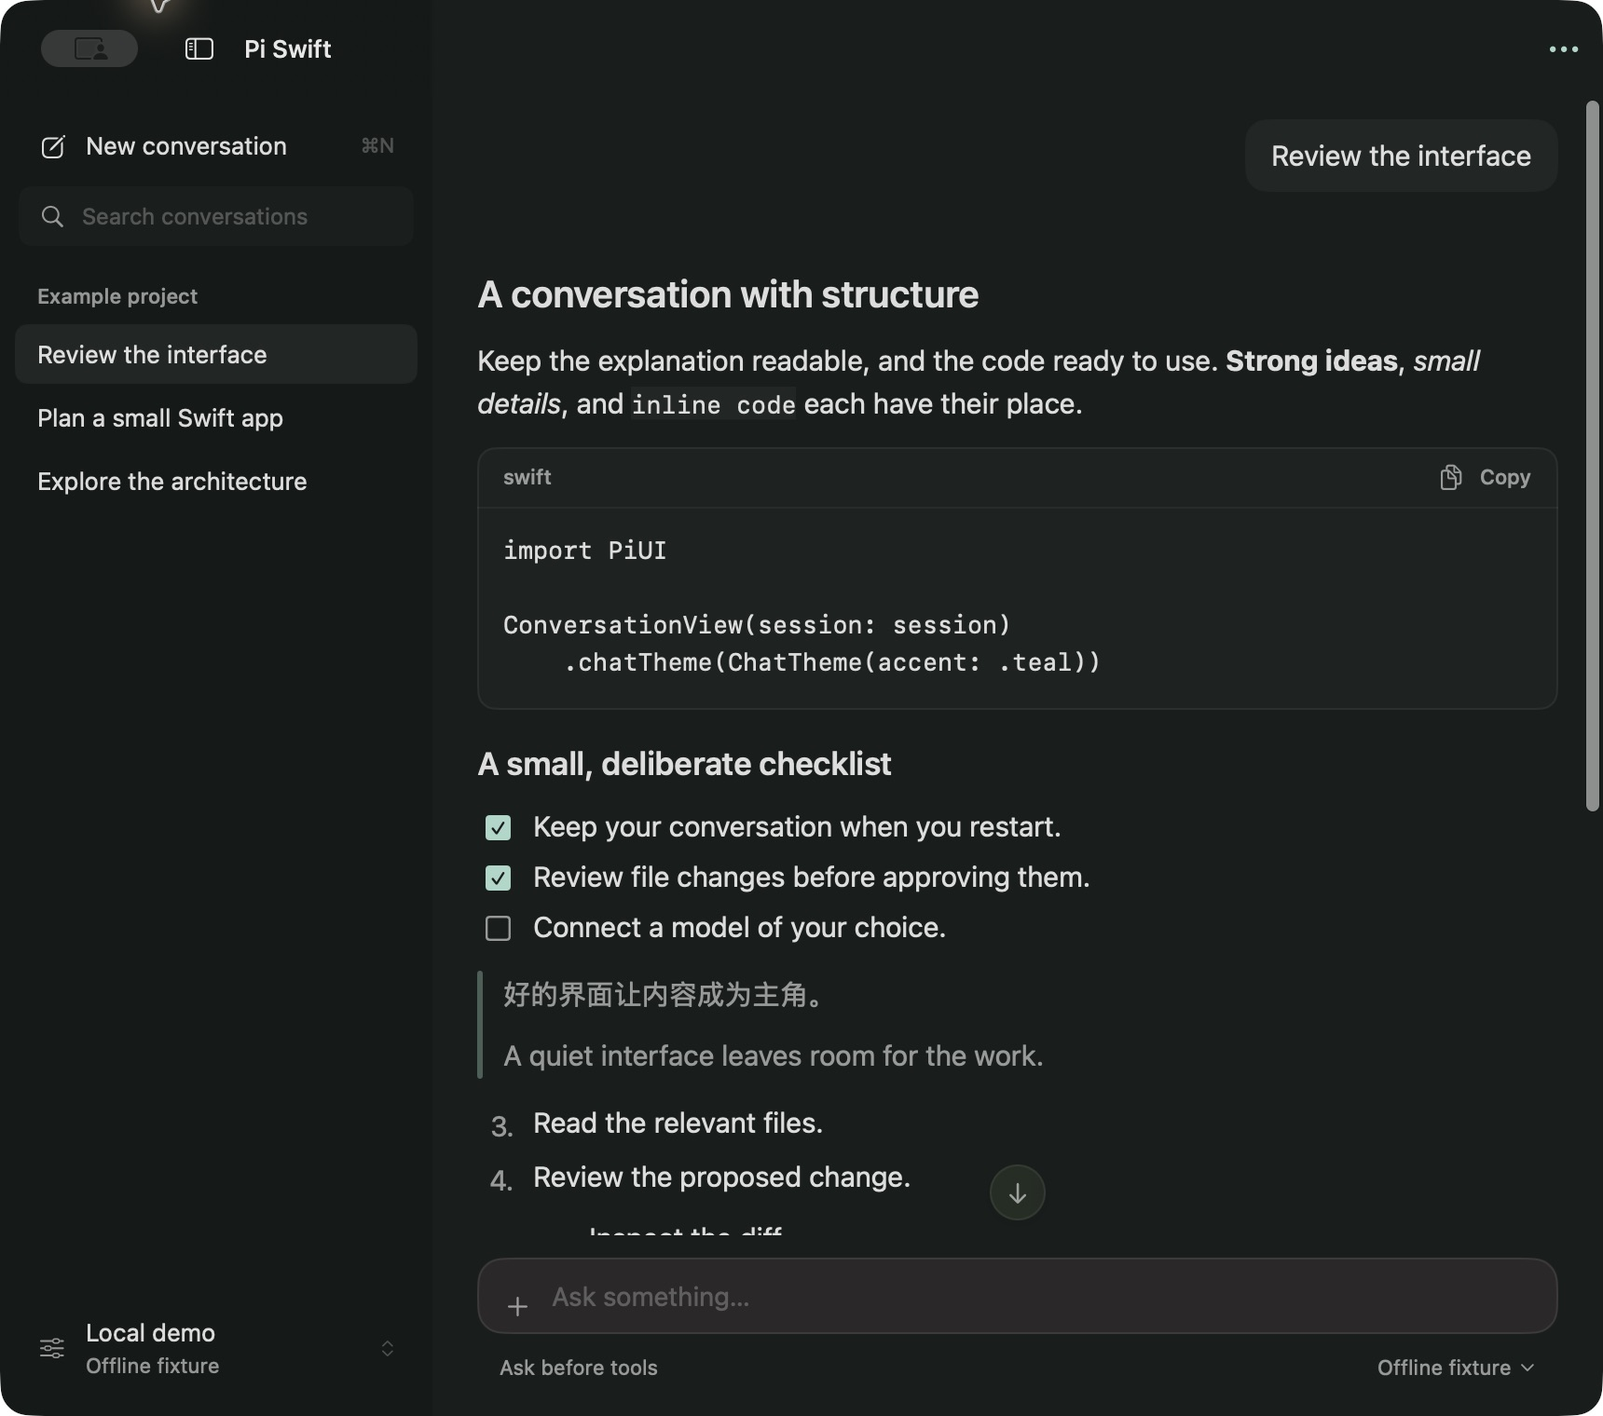
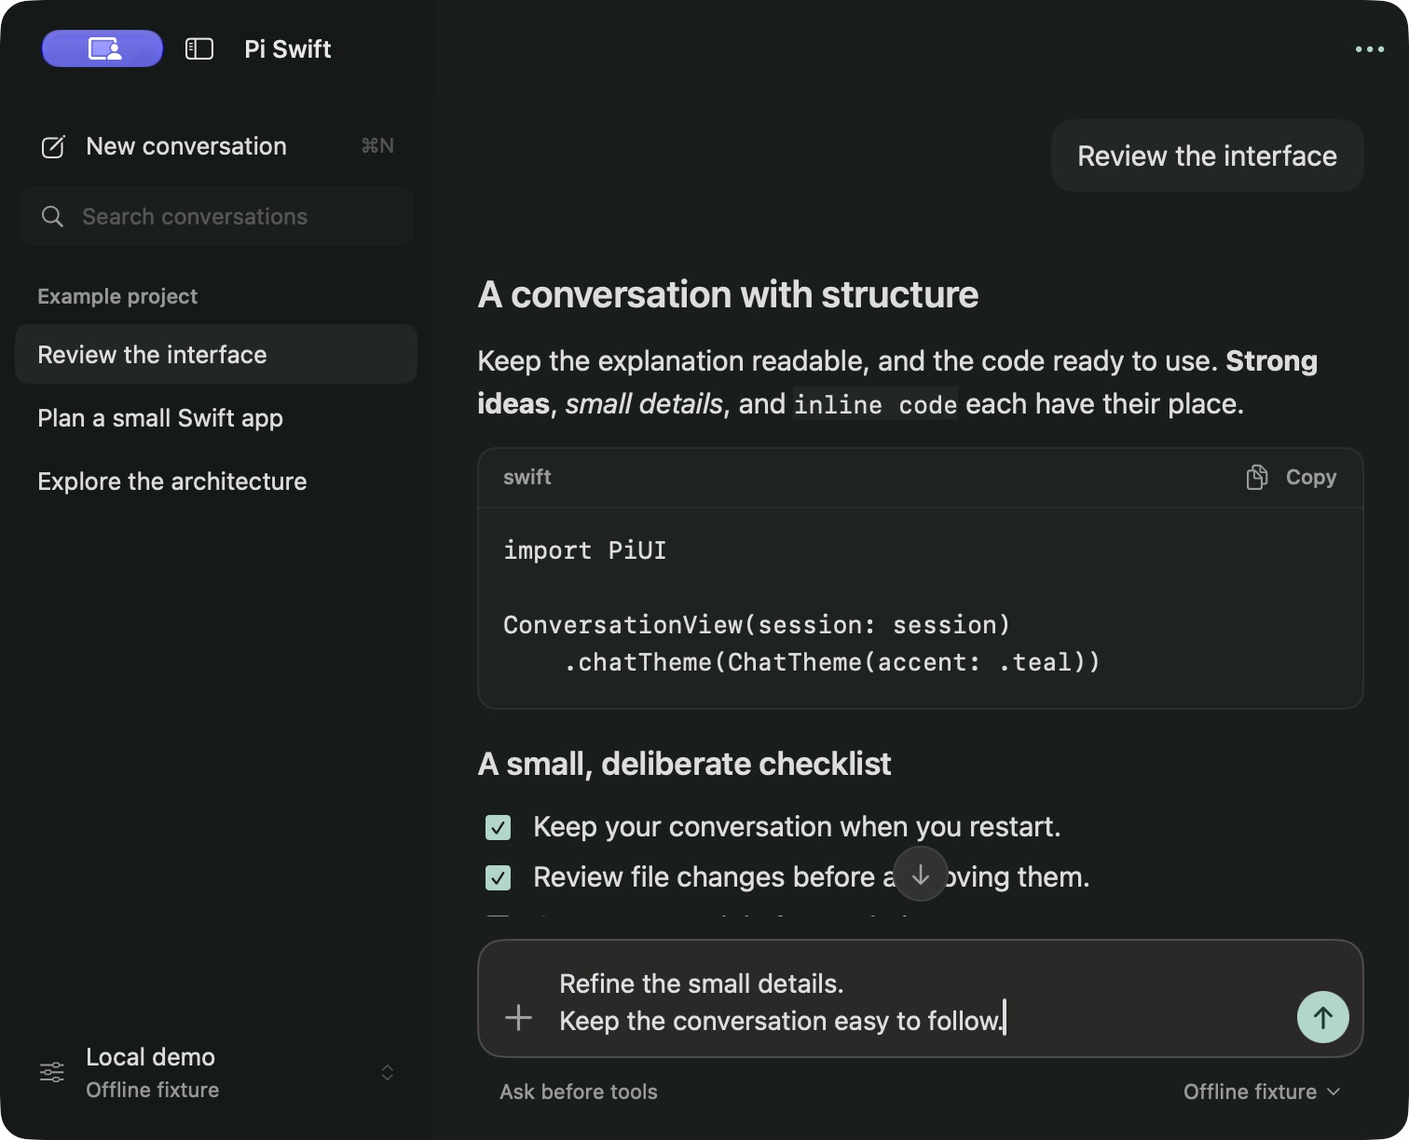
Align composer controls and native editing interactions

diff --git a/Sources/PiUI/Composer.swift b/Sources/PiUI/Composer.swift
@@ -17,7 +17,10 @@ public struct Composer: View {
     private let send: () -> Void
     private let stop: () -> Void
     private let context: ComposerContext?
-    @FocusState private var focused: Bool
+    @State private var focused = false
+    @State private var editorHeight: CGFloat = 28
+    @State private var addingContent = false
+    @FocusState private var fallbackFocused: Bool
     @Environment(\.chatTheme) private var theme
     public init(text: Binding<String>, isRunning: Bool, context: ComposerContext? = nil, send: @escaping () -> Void, stop: @escaping () -> Void) {
         _text = text; self.isRunning = isRunning; self.context = context; self.send = send; self.stop = stop
@@ -27,38 +30,47 @@ public struct Composer: View {
         VStack(alignment: .leading, spacing: 8) {
             HStack(alignment: .bottom, spacing: 8) {
                 if let context {
-                    Menu {
-                        Button("Insert text file…", systemImage: "doc.text", action: context.addTextFile)
-                    } label: {
-                        Image(systemName: "plus").font(.system(size: 16, weight: .regular)).frame(width: 24, height: 28)
-                    }.menuStyle(.borderlessButton).menuIndicator(.hidden).fixedSize()
-                        .tint(.secondary).foregroundStyle(.secondary).help("Insert text file").accessibilityLabel("Add content")
+                    Button { addingContent.toggle() } label: {
+                        Image(systemName: "plus").font(.system(size: 18, weight: .regular))
+                            .frame(width: 28, height: 28).contentShape(RoundedRectangle(cornerRadius: 6))
+                    }.buttonStyle(ComposerControlStyle()).foregroundStyle(.secondary)
+                        .help("Add content").accessibilityLabel("Add content")
+                        .popover(isPresented: $addingContent, arrowEdge: .top) {
+                            Button {
+                                addingContent = false
+                                context.addTextFile()
+                            } label: {
+                                Label("Insert text file…", systemImage: "doc.text")
+                                    .font(.system(size: 13)).padding(8).frame(maxWidth: .infinity, alignment: .leading)
+                            }.buttonStyle(ComposerControlStyle()).padding(5).frame(width: 200)
+                        }
+                        .onChange(of: addingContent) { if !addingContent { focused = true } }
                 }
-                TextField("Ask something…", text: $text, axis: .vertical)
-                    .textFieldStyle(.plain).font(.system(size: 14)).lineLimit(1...8)
-                    .focused($focused).accessibilityLabel("Message").padding(.vertical, 4)
-                    .help("⌘ Return to send · Return for a new line")
+                editor
                 if isRunning {
                     Button(action: stop) {
                         Image(systemName: "stop.fill").font(.system(size: 10)).frame(width: 28, height: 28)
                             .background(.primary.opacity(0.08), in: Circle())
-                    }.buttonStyle(.plain).help("Stop generation").accessibilityLabel("Stop generation")
+                    }.buttonStyle(ComposerControlStyle()).help("Stop generation").accessibilityLabel("Stop generation")
                 } else if canSend {
-                    Button(action: send) {
+                    Button(action: submit) {
                         Image(systemName: "arrow.up").font(.system(size: 13, weight: .semibold)).frame(width: 28, height: 28)
                             .foregroundStyle(theme.accentForeground).background(theme.accent, in: Circle())
-                    }.buttonStyle(.plain).keyboardShortcut(.return, modifiers: .command)
-                        .help("Send message · ⌘ Return").accessibilityLabel("Send message")
+                    }.buttonStyle(ComposerControlStyle())
+                        .help("Send message · Return").accessibilityLabel("Send message")
                 }
-            }.padding(.horizontal, 12).padding(.vertical, 8)
-                .background(.background, in: RoundedRectangle(cornerRadius: 14))
+            }.padding(.horizontal, 8).padding(.vertical, 8)
+                .background {
+                    RoundedRectangle(cornerRadius: 14).fill(.background)
+                        .onTapGesture { focused = true; fallbackFocused = true }
+                }
                 .overlay(RoundedRectangle(cornerRadius: 14)
                     .strokeBorder(Color.primary.opacity(focused ? 0.20 : 0.10), lineWidth: 1))
                 .shadow(color: .black.opacity(0.025), radius: 8, y: 2)
                 .animation(.easeOut(duration: 0.15), value: focused)
             HStack(spacing: 12) {
-                Text(context?.policy ?? (isRunning ? "You can prepare your next message" : "⌘ Return to send"))
-                    .lineLimit(1).fixedSize(horizontal: true, vertical: false).help(context?.policy ?? "⌘ Return to send")
+                Text(context?.policy ?? (isRunning ? "You can prepare your next message" : "Return to send · ⇧ Return for a new line"))
+                    .lineLimit(1).fixedSize(horizontal: true, vertical: false).help(context?.policy ?? "Return to send · ⇧ Return for a new line")
                 Spacer(minLength: 8)
                 if let context {
                     Button(action: context.configure) {
@@ -71,5 +83,39 @@ public struct Composer: View {
                 }
             }.font(.system(size: 11)).foregroundStyle(.secondary).padding(.horizontal, 12).frame(minHeight: 20)
         }
+    }
+    private func submit() {
+        guard canSend, !isRunning, !addingContent else { return }
+        send()
+        focused = true
+        fallbackFocused = true
+    }
+    @ViewBuilder private var editor: some View {
+        #if os(macOS)
+        ComposerEditor(text: $text, focused: $focused, height: $editorHeight, submit: submit)
+            .frame(height: editorHeight)
+            .overlay(alignment: .topLeading) {
+                if text.isEmpty {
+                    Text("Ask something…").font(.system(size: 14)).foregroundStyle(.tertiary)
+                        .padding(.top, 4).allowsHitTesting(false)
+                }
+            }
+            .help("Return to send · Shift-Return for a new line")
+        #else
+        TextField("Ask something…", text: $text, axis: .vertical)
+            .textFieldStyle(.plain).font(.system(size: 14)).lineLimit(1...8)
+            .focused($fallbackFocused).accessibilityLabel("Message").padding(.vertical, 4)
+        #endif
+    }
+
+}
+
+
+private struct ComposerControlStyle: ButtonStyle {
+    @State private var hovering = false
+    func makeBody(configuration: Configuration) -> some View {
+        configuration.label
+            .background(.primary.opacity(configuration.isPressed ? 0.10 : hovering ? 0.05 : 0), in: RoundedRectangle(cornerRadius: 6))
+            .onHover { hovering = $0 }
     }
 }

diff --git a/Sources/PiUI/ComposerEditor.swift b/Sources/PiUI/ComposerEditor.swift
@@ -1,0 +1,131 @@
+#if os(macOS)
+import AppKit
+import SwiftUI
+
+/// A plain-text editor with chat keyboard semantics and native input-method handling.
+struct ComposerEditor: NSViewRepresentable {
+    @Binding var text: String
+    @Binding var focused: Bool
+    @Binding var height: CGFloat
+    let submit: () -> Void
+
+    func makeNSView(context: Context) -> ComposerScrollView {
+        let scroll = ComposerScrollView()
+        let editor = ComposerTextView()
+        editor.isRichText = false
+        editor.importsGraphics = false
+        editor.allowsUndo = true
+        editor.isAutomaticQuoteSubstitutionEnabled = false
+        editor.isAutomaticDashSubstitutionEnabled = false
+        editor.drawsBackground = false
+        editor.font = .systemFont(ofSize: 14)
+        editor.textColor = .labelColor
+        editor.insertionPointColor = .labelColor
+        editor.textContainerInset = NSSize(width: 0, height: 4)
+        editor.textContainer?.lineFragmentPadding = 0
+        editor.textContainer?.widthTracksTextView = true
+        editor.isHorizontallyResizable = false
+        editor.isVerticallyResizable = true
+        editor.autoresizingMask = [.width]
+        let paragraph = NSMutableParagraphStyle()
+        paragraph.minimumLineHeight = 20
+        paragraph.maximumLineHeight = 20
+        editor.defaultParagraphStyle = paragraph
+        editor.typingAttributes = [.font: NSFont.systemFont(ofSize: 14),
+                                   .foregroundColor: NSColor.labelColor, .paragraphStyle: paragraph]
+        editor.setAccessibilityLabel("Message")
+        editor.setAccessibilityHelp("Return to send. Shift-Return for a new line.")
+        editor.delegate = context.coordinator
+        scroll.drawsBackground = false
+        scroll.borderType = .noBorder
+        scroll.hasVerticalScroller = true
+        scroll.autohidesScrollers = true
+        scroll.documentView = editor
+        scroll.onLayout = { [weak coordinator = context.coordinator] in coordinator?.measure() }
+        context.coordinator.scroll = scroll
+        updateNSView(scroll, context: context)
+        return scroll
+    }
+
+    func updateNSView(_ scroll: ComposerScrollView, context: Context) {
+        let coordinator = context.coordinator
+        coordinator.parent = self
+        guard let editor = scroll.documentView as? ComposerTextView else { return }
+        editor.submit = submit
+        editor.focusChanged = { [weak coordinator] value in
+            DispatchQueue.main.async { coordinator?.parent.focused = value }
+        }
+        // Don't replace a marked range while an IME is composing.
+        if editor.string != text && !editor.hasMarkedText() {
+            editor.string = text
+            editor.setSelectedRange(NSRange(location: (text as NSString).length, length: 0))
+            editor.undoManager?.removeAllActions()
+        }
+        if focused, let window = editor.window, window.firstResponder !== editor {
+            window.makeFirstResponder(editor)
+        }
+        coordinator.measure()
+    }
+
+    func makeCoordinator() -> Coordinator { Coordinator(self) }
+
+    @MainActor final class Coordinator: NSObject, NSTextViewDelegate {
+        var parent: ComposerEditor
+        weak var scroll: ComposerScrollView?
+        init(_ parent: ComposerEditor) { self.parent = parent }
+        func textDidChange(_ notification: Notification) {
+            guard let editor = notification.object as? NSTextView else { return }
+            parent.text = editor.string
+            measure()
+        }
+        func measure() {
+            guard let scroll, let editor = scroll.documentView as? NSTextView,
+                  let container = editor.textContainer, let layout = editor.layoutManager,
+                  scroll.contentSize.width > 0 else { return }
+            container.containerSize = NSSize(width: scroll.contentSize.width, height: .greatestFiniteMagnitude)
+            layout.ensureLayout(for: container)
+            let wanted = max(28, ceil(layout.usedRect(for: container).height) + 8)
+            editor.setFrameSize(NSSize(width: scroll.contentSize.width, height: max(scroll.contentSize.height, wanted)))
+            let height = min(168, wanted)
+            if parent.height != height {
+                DispatchQueue.main.async { [weak self] in
+                    guard let self, self.parent.height != height else { return }
+                    self.parent.height = height
+                }
+            }
+        }
+    }
+}
+
+final class ComposerScrollView: NSScrollView {
+    var onLayout: (() -> Void)?
+    override func layout() { super.layout(); onLayout?() }
+}
+
+final class ComposerTextView: NSTextView {
+    var submit: (() -> Void)?
+    var focusChanged: ((Bool) -> Void)?
+    override func becomeFirstResponder() -> Bool {
+        let result = super.becomeFirstResponder()
+        if result { focusChanged?(true) }
+        return result
+    }
+    override func resignFirstResponder() -> Bool {
+        let result = super.resignFirstResponder()
+        if result { focusChanged?(false) }
+        return result
+    }
+    override func keyDown(with event: NSEvent) {
+        // Let AppKit consume Return to confirm Chinese/Japanese composition first.
+        if (event.keyCode == 36 || event.keyCode == 76), !hasMarkedText() {
+            if event.modifierFlags.intersection([.shift, .option, .control]).isEmpty {
+                if !event.isARepeat { submit?() }
+                return
+            }
+            insertNewlineIgnoringFieldEditor(nil)
+            return
+        }
+        super.keyDown(with: event)
+    }
+}
+#endif

diff --git a/Tests/PiUITests/ComposerEditorTests.swift b/Tests/PiUITests/ComposerEditorTests.swift
@@ -1,0 +1,52 @@
+#if os(macOS)
+import AppKit
+import Testing
+@testable import PiUI
+
+@MainActor
+struct ComposerEditorTests {
+    private func key(_ modifiers: NSEvent.ModifierFlags = [], repeatKey: Bool = false) -> NSEvent {
+        NSEvent.keyEvent(with: .keyDown, location: .zero, modifierFlags: modifiers, timestamp: 0,
+                        windowNumber: 0, context: nil, characters: "\r", charactersIgnoringModifiers: "\r",
+                        isARepeat: repeatKey, keyCode: 36)!
+    }
+
+    @Test func returnSubmitsButModifiedReturnInsertsNewline() {
+        let editor = ComposerTextView()
+        var sends = 0
+        editor.submit = { sends += 1 }
+        editor.string = "Draft"
+        editor.setSelectedRange(NSRange(location: 5, length: 0))
+        editor.keyDown(with: key(.shift))
+        #expect(editor.string == "Draft\n")
+        #expect(sends == 0)
+        editor.keyDown(with: key(.option))
+        #expect(editor.string == "Draft\n\n")
+        editor.keyDown(with: key())
+        editor.keyDown(with: key(.command))
+        #expect(sends == 2)
+        editor.keyDown(with: key(repeatKey: true))
+        #expect(sends == 2)
+    }
+
+    @Test func markedTextConfirmationDoesNotSubmit() {
+        let editor = ComposerTextView()
+        var sends = 0
+        editor.submit = { sends += 1 }
+        editor.setMarkedText("拼音", selectedRange: NSRange(location: 2, length: 0),
+                             replacementRange: NSRange(location: NSNotFound, length: 0))
+        #expect(editor.hasMarkedText())
+        editor.keyDown(with: key())
+        #expect(sends == 0)
+    }
+
+    @Test func multilineInsertionIsOnlyDraft() {
+        let editor = ComposerTextView()
+        var sends = 0
+        editor.submit = { sends += 1 }
+        editor.insertText("let n = 1\nprint(n)", replacementRange: NSRange(location: NSNotFound, length: 0))
+        #expect(editor.string == "let n = 1\nprint(n)")
+        #expect(sends == 0)
+    }
+}
+#endif

diff --git a/Docs/UI.md b/Docs/UI.md
@@ -55,7 +55,7 @@ No attachment upload, image message view, reference/question components, branch 
 
 ## Presentation
 
-Pi Swift combines its title and actions in one native window toolbar with a text-only title, sidebar toggle and More menu; scenarios, appearance and model settings live in More. The sidebar background continues to the top window edge behind the traffic lights and title. Its boundary stays aligned with the sidebar when the window resizes, and disappears when the sidebar is collapsed. Conversation content starts 12 pt below the toolbar; the opaque native toolbar keeps scrolled text from showing behind its title and actions. User text sits in a trailing, content-sized bubble; assistant text uses an unboxed paragraph layout. Tool rows disclose details on demand. Copy is available on hover, through the context menu, and as an accessibility action. The composer uses a 14 pt corner radius, grows from one to eight lines, and shows its circular send action only for nonblank text. Pi Swift places an Add menu inside the leading edge, with approval policy and the model/settings control in a separate footer; approval arguments fit their content up to a scrollable 100 pt limit, and diff previews have a separate 180 pt limit. The 232 pt sidebar uses quiet selection and hover states, a new-conversation action and a bottom model/workspace entry. It refreshes after responses and on app activation so CLI-written sessions are discoverable. Cmd-N starts a conversation; Control-Cmd-S toggles the sidebar. Resizing the window keeps the composer and transcript usable in a narrow column.
+Pi Swift combines its title and actions in one native window toolbar with a text-only title, sidebar toggle and More menu; scenarios, appearance and model settings live in More. The sidebar background continues to the top window edge behind the traffic lights and title. Its boundary stays aligned with the sidebar when the window resizes, and disappears when the sidebar is collapsed. Conversation content starts 12 pt below the toolbar; the opaque native toolbar keeps scrolled text from showing behind its title and actions. User text sits in a trailing, content-sized bubble; assistant text uses an unboxed paragraph layout. Tool rows disclose details on demand. Copy is available on hover, through the context menu, and as an accessibility action. The composer uses a 14 pt corner radius, grows from one line to a 168 pt editor, then scrolls internally, and shows its circular send action only for nonblank text. Pi Swift places a 28 pt Add button at the bottom leading edge, aligned with the send/stop control, with approval policy and the model/settings control in a separate footer; approval arguments fit their content up to a scrollable 100 pt limit, and diff previews have a separate 180 pt limit. The 232 pt sidebar uses quiet selection and hover states, a new-conversation action and a bottom model/workspace entry. It refreshes after responses and on app activation so CLI-written sessions are discoverable. Cmd-N starts a conversation; Control-Cmd-S toggles the sidebar. Resizing the window keeps the composer and transcript usable in a narrow column.
 
 ## Persistent coding session
 
@@ -89,7 +89,7 @@ Parsing runs off the main actor. Each visible message coalesces streaming deltas
 Only HTTP, HTTPS and mailto links are interactive. Images display their alternative text, and raw HTML is shown literally; rendering a reply does not fetch images or execute HTML. Tables honor column alignment and scroll horizontally in a narrow companion layout. **More → Scenarios → Rich Markdown** provides a deterministic streaming fixture for all these blocks.
 
 
-`ComposerContext` lets a host supply the model label, approval label, settings action and text-file insertion action. Pi Swift's Add menu inserts UTF-8 file text (up to 128 KiB) into the draft; it does not upload an attachment or submit a message. The draft stays editable during generation. The model control is disabled while a request is running, and permissions remain explicit per tool call. Empty input has no send button; Cmd-Return sends nonblank input and Return inserts a newline.
+`ComposerContext` lets a host supply the model label, approval label, settings action and text-file insertion action. Pi Swift's Add menu inserts UTF-8 file text (up to 128 KiB) into the draft; it does not upload an attachment or submit a message. The draft stays editable during generation. The Add popover closes with Escape and returns focus to the editor; inserting a file preserves the existing draft. Native selection, undo, multiline paste and internal scrolling are supported. The model control is disabled while a request is running, and permissions remain explicit per tool call. Empty input has no send button; On macOS, Return (or Cmd-Return) sends nonblank input; Shift-Return and Option-Return insert a newline. Return confirms marked IME text without sending. Held Return does not repeat submission. During generation, Return leaves the next draft untouched.
 
 ### Detail polish
 

diff --git a/Docs/VALIDATION.md b/Docs/VALIDATION.md
@@ -34,3 +34,10 @@ The tool-duration regression compares the reported execution time with measured 
 Native acceptance used the isolated local fixture: search focus/filter/Escape, code-copy confirmation, the circular return-to-latest control, long model names in the sidebar and composer, and light/dark compact layouts. The eight-module test suite passed. README screenshots were refreshed from this build. No live provider or personal conversation was used.
 
 - Full-height sidebar: native light/dark compact windows and sidebar collapse checked. The native toolbar uses an opaque split background aligned with the sidebar; transcript scrolling remains below the toolbar, without text bleeding behind window controls.
+
+
+## Composer interaction — 2026-10-29
+
+Rechecked the local Claude Code composer with an unsent temporary draft (cleared afterward). Pi Swift now uses a fixed 28 pt Add button and a native plain-text editor; the Add and send/stop actions stay aligned at the bottom while the editor grows upward. Native QA covered empty/single/multiline drafts, Shift-Return, Return submission, draft preservation while running, stopping pending tool approval, Escape from the Add popover, UTF-8 file insertion and resumed editing, a 20-line internally scrolling draft, and light/dark compact layouts. README screenshots contain only the isolated local fixture.
+
+Three new AppKit tests cover Return/Cmd-Return submission, modified Return/newlines, held-key suppression, marked-text confirmation without submission, and multiline insertion without submission. This tests the marked-text API; real Chinese/Japanese IME candidate selection and full VoiceOver traversal still need manual acceptance. All eight test modules and the Release app build passed locally. Model/workspace configuration and text-file insertion retain their existing scope; image uploads, Claude slash commands and permission modes are not emulated.

diff --git a/README.md b/README.md
@@ -17,7 +17,7 @@ The repository is named **`pi-swfit`**. The product is **Pi Swift**, and the com
 ![Pi Swift in the Celadon light theme](Docs/Images/pi-swift-light.png)
 
 <details>
-<summary>Dark appearance</summary>
+<summary>Dark appearance · compact window</summary>
 
 ![Pi Swift in the Celadon dark theme](Docs/Images/pi-swift-dark.png)
 
